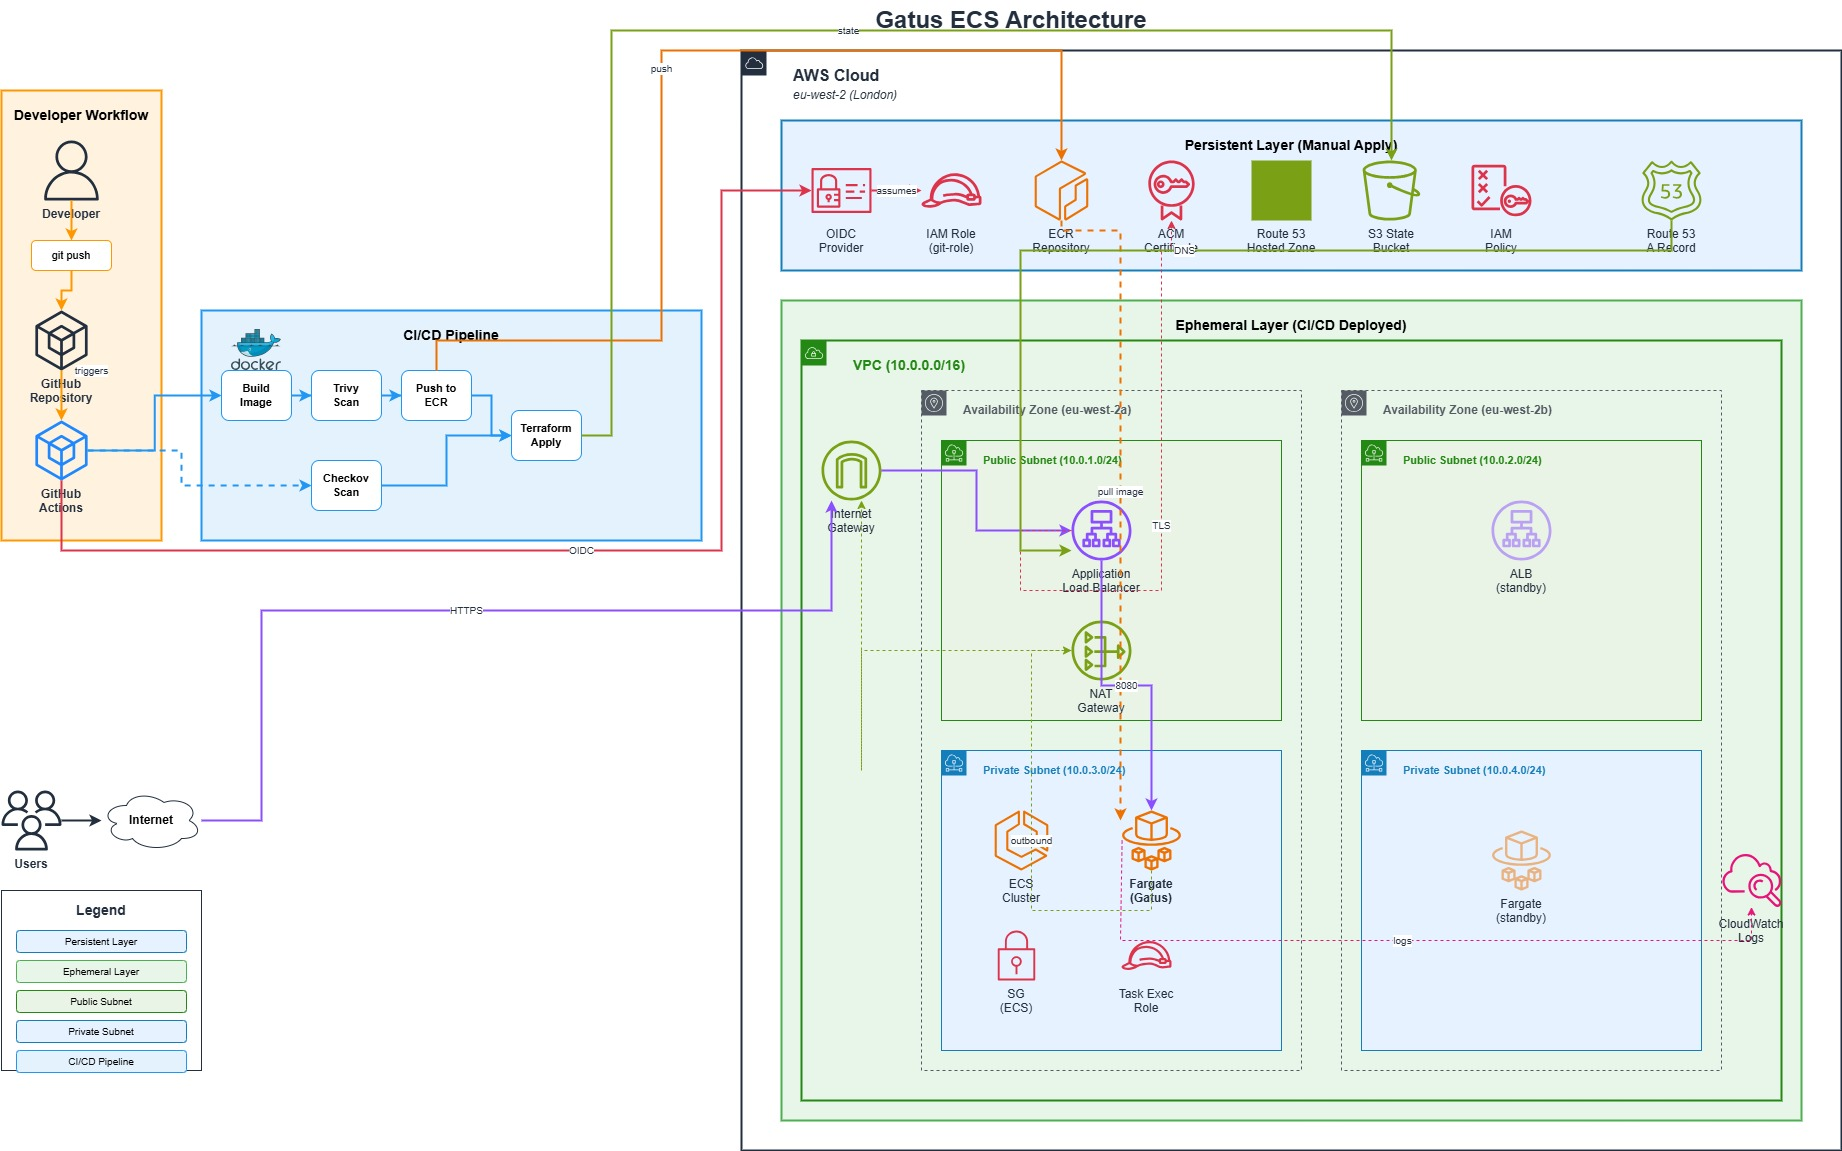
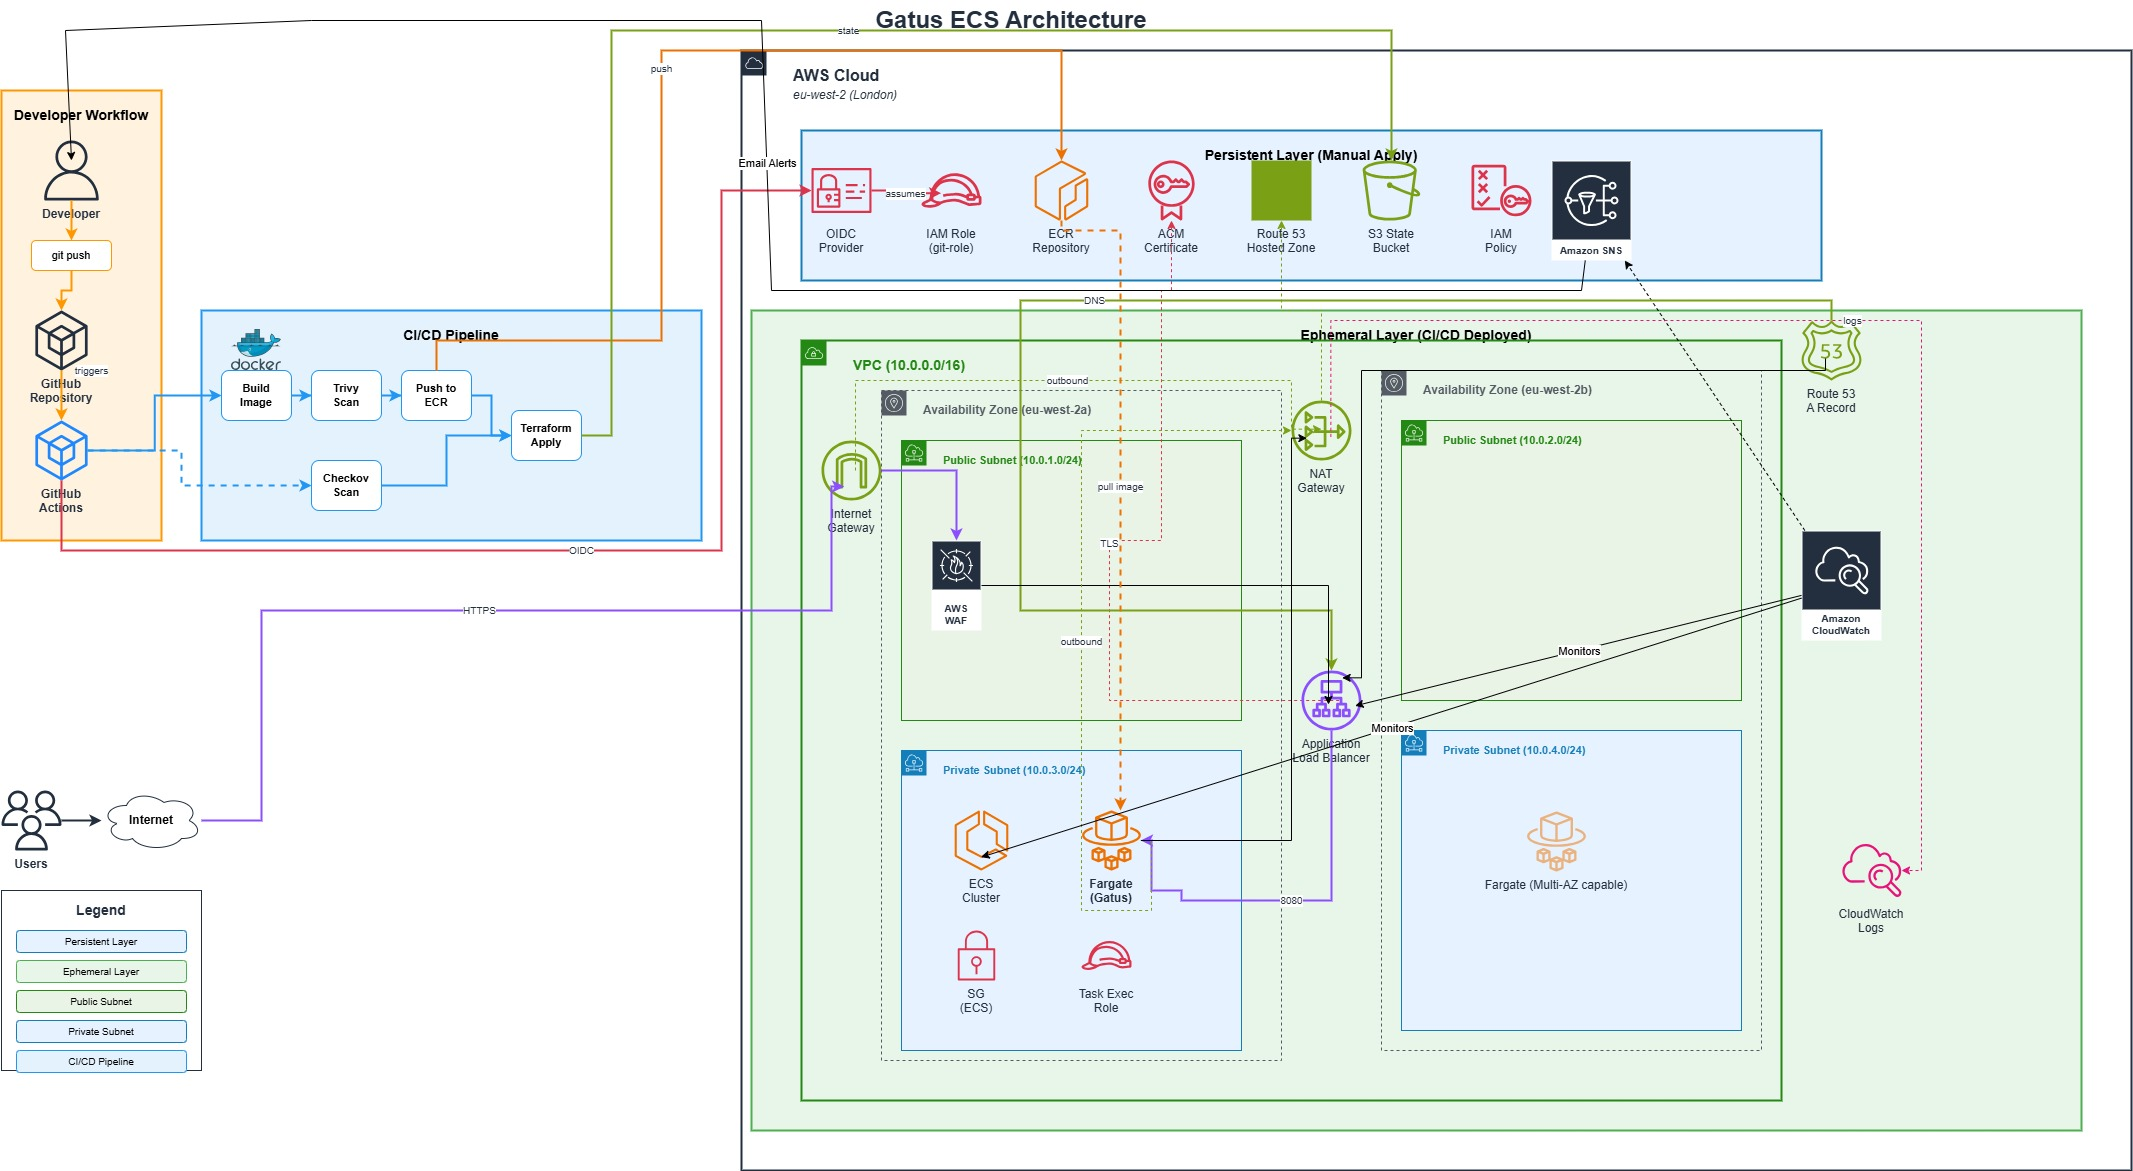
updated architecture diagram (#21)

diff --git a/infrastructure/persistent/docs/RECOVERY.md b/infrastructure/persistent/docs/RECOVERY.md
@@ -1,0 +1,73 @@
+
+# Persistent Layer Recovery
+
+If the persistent layer is destroyed, follow these steps to rebuild.
+
+## Prerequisites
+
+- AWS CLI configured
+- Terraform installed
+- Access to Route 53 registrar (for nameserver updates if zone is recreated)
+
+## Recovery Order
+
+Resources must be created in this order due to dependencies:
+
+### 1. Route 53 Hosted Zone
+
+terraform apply -target=aws_route53_zone.main
+
+**Manual step:** If zone is recreated, update nameservers at your domain registrar. New zone gets new nameservers.
+
+### 2. ACM Certificate
+
+terraform apply -target=aws_acm_certificate.main
+terraform apply -target=aws_acm_certificate_validation.main
+
+**Manual step:** Wait for DNS validation to complete (usually 5-30 minutes).
+
+### 3. OIDC Provider
+
+terraform apply -target=aws_iam_openid_connect_provider.github
+
+### 4. IAM Role
+
+terraform apply -target=aws_iam_role.github_actions
+terraform apply -target=aws_iam_role_policy_attachment.github_actions
+
+
+### 5. ECR Repository
+
+terraform apply -target=aws_ecr_repository.gatus
+
+**Note:** Images will need to be rebuilt and pushed. Trigger CI pipeline after recovery.
+
+### 6. SNS Topic
+
+terraform apply -target=aws_sns_topic.alerts
+terraform apply -target=aws_sns_topic_subscription.email
+
+**Manual step:** Confirm email subscription when you receive the confirmation email.
+
+## Full Recovery
+
+Or apply everything at once:
+
+terraform apply
+
+
+Then complete manual steps:
+
+1. Update nameservers at registrar (if zone recreated)
+2. Wait for ACM validation
+3. Confirm SNS email subscription
+4. Trigger CI pipeline to rebuild and push image
+
+## Verification
+
+- [ ] Route 53 zone has correct records
+- [ ] ACM certificate shows "Issued"
+- [ ] GitHub Actions pipeline can authenticate
+- [ ] ECR repository exists
+- [ ] SNS subscription confirmed
+- [ ] Ephemeral layer deploys successfully

diff --git a/README.md b/README.md
@@ -37,6 +37,9 @@ Without this automation, deploying would require manual steps every time — err
 - **Immutable image tags:** Container images can't be overwritten — prevents supply chain attacks
 - **Automated dependency updates:** Dependabot watches Terraform, Docker, and GitHub Actions versions
 - **Manual approval gates:** Production deployments require explicit approval via GitHub Environments — prevents accidental infrastructure changes
+- **WAF protection:** Rate limiting and AWS managed rules for common attacks and SQL injection
+- **CloudWatch monitoring:** Alarms for ECS CPU/memory, ALB latency (p99), unhealthy hosts, with email alerts via SNS
+- **Disaster recovery:** Documented recovery procedure for persistent layer rebuild
 
 ## Technology Choices
 
@@ -57,21 +60,27 @@ Modular Terraform structure: VPC with public/private subnets, ALB in public, ECS
 ## Demo
 
 ### Gatus Dashboard
+
 ![Dashboard](images_gifs/gatus.gif)
 
 ### CI Pipeline - Build & Scan
+
 ![CI Pipeline](images_gifs/ci.png)
 
 ### CD Pipeline with Approval Gate
+
 ![CD Pipeline](images_gifs/approve.png)
 
-### CD - Deployment
+### CD - deployment
+
 ![CD Success](images_gifs/cd.png)
 
 ### Health Check
+
 ![Health Check](images_gifs/healthcheck.png)
 
 ### Manual Destroy Pipeline
+
 ![Destroy Pipeline](images_gifs/destroy.png)
 
 ## Getting Started (For Developers)
@@ -111,6 +120,7 @@ To manually destroy ephemeral infrastructure:
 **Current state:** Working / Portfolio project
 
 **What's working:**
+
 - Full CI/CD pipeline (build, scan, push, deploy)
 - Security scanning gates (Trivy, Checkov)
 - Automated dependency updates
@@ -118,7 +128,7 @@ To manually destroy ephemeral infrastructure:
 - Live Gatus at tm.elsagatus.com
 
 **What's planned:**
-- Add path filtering (only rebuild image when Dockerfile changes)
+
 - Scope IAM resources for ECS/ELB Delete* and Modify* actions to gatus-*
 
 
